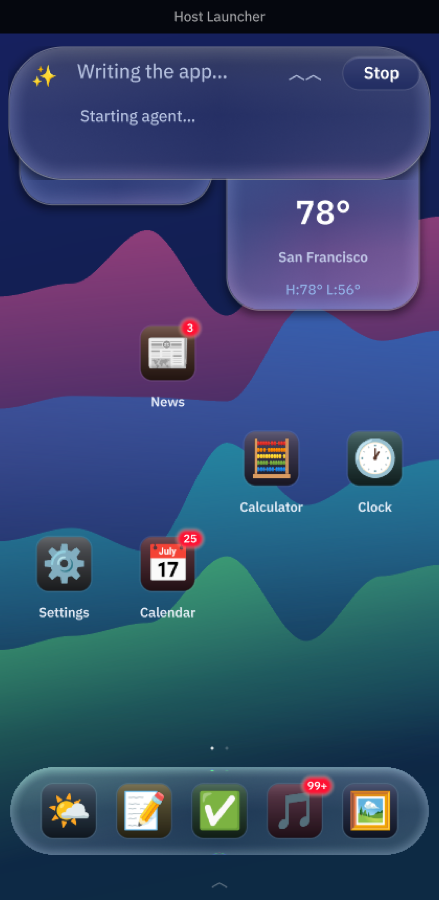
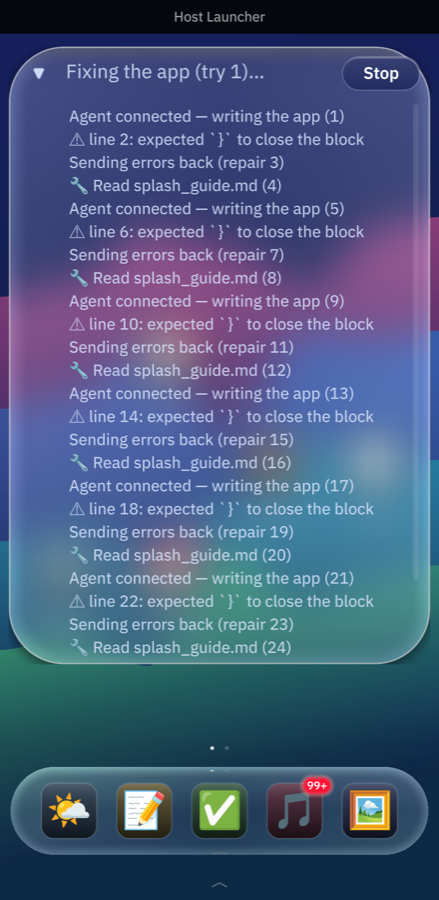
docs: agent options, the persistent console, and two makepad traps
writes up the per-backend options table (and why there's no openai
reasoning-effort control on the octos path yet), the console's new behaviour,
and the app info page.

also records two traps that each cost a debugging round: a glass surface's lens
renders OVER later siblings (why widgets floated on top of mini-apps, and why
an icon on a glass button is invisible), and typed widget accessors fail
SILENTLY on a type mismatch — swapping the send button's type left its click
handler matching nothing, so it rendered perfectly and did nothing.

diff --git a/docs/DESIGN_DECISIONS.md b/docs/DESIGN_DECISIONS.md
@@ -279,7 +279,7 @@ A second pass drove the shell much closer to a real iOS/Android launcher. Choice
     modification uses (registry + user_apps + disk + force-stop + icon/tile
     rebuild). Newest 20 kept per app.
 
-37. **App Info page** → The long-press menu was becoming a junk drawer, so it
+37. **App Info page** (full-screen since) → The long-press menu was becoming a junk drawer, so it
     now keeps only home-screen verbs (open, place, remove, modify) and hands
     everything *about* the app to an App Info page, the way a phone's per-app
     settings screen works: type, placement, network access, storage used (with
@@ -303,4 +303,138 @@ A second pass drove the shell much closer to a real iOS/Android launcher. Choice
     input on plain Return when `has_physical_keyboard()`, which is exactly
     right (a soft keyboard's Return must type a newline) and exactly why a
     touch-only user would otherwise be stuck.
+
+39. **The console only grows, and keeps everything** → Two things made the
+    progress panel unreadable. It was a last-6-lines window, so a run with a
+    repair loop scrolled its own history into the bin; and the box was `Fit`
+    around a rolling code tail, so it changed height under you while you read.
+    Now the trail is never truncated (a pipeline lives one generation, so the
+    log is bounded by the run), the output scrolls with wheel and drag, and
+    App holds the view at its high-water mark — it grows to the 62% cap and
+    stops, never shrinking. It follows the tail like a terminal until you
+    scroll or press inside it, which is taken as "I'm reading" and stops the
+    auto-follow for the rest of the run.
+
+    A scrolling view can't size itself, which shapes the whole thing: give it
+    `Fit` and it takes the entire cap however little it has to say. So the
+    viewport's height is written from Rust each event — the content's height,
+    clamped to the cap, ratcheted so it only ever rises — and the content sits
+    in an inner `Fit` view that's free to overrun. Measuring the *labels*
+    instead reads back the clip, and the box can never grow past its own
+    starting height.
+
+    Three self-inflicted traps on the way, all worth remembering. The height
+    was first set with `script_apply_eval!`, whose scope has none of the DSL's
+    imports, so `Fit`/`FitBound` resolved to nothing and the console silently
+    drew at zero height (SPLASH_FINDINGS #8, hit for the second time — it now
+    writes `walk.height` directly). "Scroll to the bottom" was written as
+    `set_scroll_pos(f64::MAX)`, which clamps once the view has scroll bars but
+    before the first draw falls through to writing `layout.scroll` raw — an
+    enormous offset there doesn't mean "the end", it throws the log a million
+    points off screen; the target is computed now. And reading `.rect()` off an
+    area that hasn't drawn logs a mark/sweep error per call — twenty of those
+    per generation slowed the test harness's snapshot queries enough to lose
+    the race against a 20s window, which is what made the failure look
+    intermittent. All rect reads go through a `drawn_height` guard.
+
+    The show/hide control moved into the ✨'s slot, and the sparkle hides
+    while the agent works: two glyphs that mean different things never share
+    the bar, and the status row is left to the status. The control is robrix's
+    `ExpandArrow` (ported into `shared/`) — an SDF triangle that rotates
+    between right and down — because every text option was bad: ˄/˅ are tofu
+    in these fonts, the CJK compat chevrons that do render (︿﹀) are wide and
+    mismatched, and no glyph can animate between states. Since makepad's
+    Button draws its own text/icon and takes no children, the button is an
+    Overlay hit target with the arrow drawn over it. Re-showing restores the
+    height it had, because "hide" should be reversible, not a reset.
+
+40. **App Info fills the screen and scrolls** → It started as a centred card,
+    which was wrong on both counts: it's a page you go *into*, not a popover,
+    and its content (version history especially) outgrows any fixed height. It
+    now fills the screen like an open mini-app, with the header pinned and
+    everything below it in a scrolling body. The sides keep the app window's
+    4pt hairline; top and bottom give up 28pt so a strip of dimmed backdrop
+    stays tappable — tap-outside-to-dismiss only works if there IS an outside. Pinning the header is the whole point of the × living
+    there: a close button that scrolls off screen is worse than none, and with
+    the page covering the screen there's no longer any backdrop left to tap.
+
+41. **Agent options are per-backend, not a fixed set** → Model, effort and
+    thinking are worth exposing, but there is no cross-provider standard for
+    any of them: Claude Code reads three environment variables of its own,
+    octos takes `--model` and offers nothing else we can drive, and a foreign
+    ACP agent is a black box. So the bar asks the ACTIVE backend what it
+    supports and renders that — three controls on Claude Code, two on octos +
+    anthropic, effort alone on other octos providers, none for a foreign agent
+    — and names the backend underneath, since the controls mean nothing without
+    it. A knob nobody reads is worse than a missing one: it looks like it
+    works. Adding one is a table entry in `Backend::knobs` plus a delivery
+    rule, and the delivery mechanism has to be *checked*, not assumed: octos's
+    in-process provider setup only passes a model, which is what made effort
+    look undeliverable, but `octos acp` reads `gateway.reasoning_effort` from
+    its config and maps it per provider (OpenAI/Grok `reasoning_effort`, Gemini
+    thinking budget, Anthropic thinking block). Delivering it therefore means
+    writing that one field into octos's own config — invasive-looking, but it
+    IS the mechanism: `--effort` exists on `octos chat`, not `acp`, and octos
+    treats the value as a persistent per-turn setting.
+
+    The values are stored as what gets sent, so a model chosen in a build that
+    listed it survives one that doesn't — the control falls back to "Default"
+    while the stored value is still delivered. "Default" everywhere means *say
+    nothing*, which is deliberately not the same as picking the agent's default
+    value: it leaves `~/.claude/settings.json` in charge.
+
+    The controls are `glass.GlassSegmented` rather than dropdowns — the choices
+    are few and ordered, so showing them inline beats hiding them behind a
+    popup, and a stock dropdown looked like a system widget dropped onto the
+    glass. The catch is that its labels come from the DSL (makepad exposes no
+    setter), so they're duplicated in create_bar.rs and pinned by a test.
+
+42. **The effort ladder is probed; "Deep" is prompt text** → Two follow-ons
+    from #41, both about not shipping controls that quietly do nothing.
+
+    `xhigh` is real in the API and in current Claude Code, but the runtime our
+    ACP adapter bundles is older and *silently drops* an unrecognized level
+    rather than erroring — the worst failure mode, since the control looks like
+    it worked. So the bar reads the runtime it will actually spawn
+    (`CLAUDE_CODE_EXECUTABLE`, else the SDK bundled beside `claude-code-acp` on
+    PATH), looks for the level, and offers it only if present — failing closed
+    when nothing is found. The row therefore declares two segmented controls
+    and shows whichever matches, since GlassSegmented's labels are fixed in the
+    DSL. Selection is by CONTENT, not segment count: octos's ladder is also
+    four levels and has no `xhigh`, and offering it there would write a value
+    octos's own enum rejects.
+
+    A "Deep" control (plan, delegate to subagents, verify) was built and then
+    removed: it only appended encouragement to the prompt, and no such setting
+    exists in any agent's own interface. It read as a capability while being a
+    suggestion — the same objection as an unbacked knob, one level up. If the
+    bundled runtime gains the Workflow tool, the control can map to that.
+
+    The row opens on prompt focus and closes on a press outside the bar — not
+    on the prompt losing focus, which had it vanishing out from under the very
+    click that was trying to use it.
+
+    Rows are addressed by `KnobId`, never by position. A backend offering
+    effort but no model (octos + openai) must still land in the effort row, or
+    the effort setting renders with the model's labels — which is exactly what
+    happened the first time.
+
+43. **Two makepad traps this codebase keeps hitting** → Worth stating plainly,
+    because each cost a debugging round and neither announces itself.
+
+    *A glass surface's lens renders OVER later siblings.* It is not a normal
+    z-ordered fill. This is why the home screen has to be hidden the instant a
+    mini-app starts opening (not when it finishes — widgets floated on top of
+    the app for the whole zoom), and why the send button's icon is layered on a
+    plain `RoundedView` disc rather than a `glass.GlassButtonProminent`: on the
+    glass button the icon drew correctly and was invisible. If something you
+    drew is missing and the log is clean, look for glass underneath it.
+
+    *Typed widget accessors fail silently on a type mismatch.* Changing the
+    send button from `glass.GlassButtonProminent` to `ButtonFlatter` left
+    `glass_button(ids!(create_send)).clicked(actions)` matching nothing — the
+    button rendered perfectly and did nothing, taking every generation path
+    with it. No error, no warning; a screenshot can't catch it. Changing a
+    widget's type is a change to every handler that reads it, and the UI suite
+    is what proves the click still lands.
 

diff --git a/docs/GENERATE.md b/docs/GENERATE.md
@@ -215,20 +215,90 @@ below it reserves the resting position so the grid still starts underneath).
 Idle, it's a multi-line composer: the prompt grows with what you type, up to
 75% of the screen, and scrolls past that. Return submits **only when a
 physical keyboard is attached** — on a phone, Return has to be able to type a
-newline — so a Send button appears as soon as the field is non-empty. That's
+newline — so a Send arrow appears beside the field as soon as it's non-empty
+(beside, not under: its own row doubled the bar's height the moment you typed
+a character). That's
 also how the UI tests submit (`submit_prompt()` in `tests/ui.rs`); a headless
 harness reports no physical keyboard.
 
 Once you submit, the same space becomes the agent's console: a status line
-with Stop, over a scrolling log of what the agent is doing — connection and
-phase changes, tool calls, validation errors being sent back for repair — and
-a live tail of the code as it streams in. ︿︿ collapses the log back to the
-status line (sticky for the session), ﹀﹀ reopens it. Presses on the bar
-never fall through to the icons underneath. It reverts to the composer when
-the generation ends.
+with Stop, over the run's log — connection and phase changes, tool calls,
+validation errors being sent back for repair — and a live tail of the code as
+it streams in.
+
+The console keeps the **whole** run and scrolls (wheel or drag), and it only
+ever grows: it sizes to the log, stops just above the dock, and never comes
+back down — a box that shrinks under the text you're reading is worse than one
+that's briefly too big. It follows the tail like a terminal until you scroll
+or press inside it, then leaves you where you are.
+
+When the run finishes the output **stays**, with the result appended as its
+last line. Press anywhere outside the bar to dismiss it and get the composer
+back. (It used to erase itself a few seconds after finishing, which took the
+explanation with it.) While the agent works
+the ✨ gives up its slot to a triangle that hides the output — it rotates
+between pointing right (hidden) and down (showing), and brings the console
+back at the size it had; the sticky choice lasts the session. Presses on the bar
+never fall through to the icons underneath, and it reverts to the composer
+when you dismiss it.
+
+### Agent options
+
+Focus the prompt (or start typing) and a row of controls appears under it:
+**Model**, **Effort**, **Thinking**. They're glass segmented controls, and your
+picks persist across launches.
+
+Which controls appear depends on the **active backend**, because there's no
+cross-provider standard for any of this:
+
+| Backend | Model | Effort | Thinking | How it's delivered |
+|---|:---:|:---:|:---:|---|
+| Claude Code (`claude-code-acp`) | ✅ | ✅ | ✅ | `ANTHROPIC_MODEL`, `CLAUDE_CODE_EFFORT_LEVEL`, `MAX_THINKING_TOKENS` — env vars the CLI reads itself |
+| octos (anthropic) | ✅ | ✅ | — | model via `octos acp --model …`; effort via `gateway.reasoning_effort` |
+| octos (openai, gemini, groq, …) | — | ✅ | — | effort via `gateway.reasoning_effort` |
+| any other ACP agent | — | — | — | unknown binary, unknown knobs |
+
+Every control maps to a setting the agent itself has. There's deliberately no
+invented "thorough mode" knob: a control that only appends encouragement to the
+prompt looks like a capability and isn't one.
+
+A knob nobody reads is worse than a missing one — it looks like it works — so
+the bar only shows what the live backend can actually honour, and names that
+backend under the controls.
+
+Two wrinkles worth knowing:
+
+- **Effort on octos edits octos's config.** `octos acp` has no `--effort` flag
+  (that's `octos chat`); it reads `gateway.reasoning_effort` from
+  `config.json`, and octos itself treats that as a persistent setting applied
+  to every turn. So the control writes that one field — everything else in the
+  file is preserved — and octos maps it per provider: `reasoning_effort` for
+  OpenAI and Grok, a thinking budget for Gemini, a thinking block for
+  Anthropic. Models with no reasoning style ignore it.
+- **The effort ladder is probed, not assumed.** `xhigh` exists in the API and
+  in current Claude Code, but *not* in the runtime `claude-code-acp@0.16.2`
+  bundles (`@anthropic-ai/claude-agent-sdk@0.2.44`, whose ladder is
+  `low`/`medium`/`high`/`max`). An unknown level there is **silently dropped**,
+  falling back to `high` — so the bar reads the runtime and only offers
+  `X-High` when it will actually be honoured. Point `CLAUDE_CODE_EXECUTABLE`
+  at a newer `claude` and the level appears by itself.
+
+  That version pin is also why there's no Workflow tool: the adapter is already
+  at its latest (0.16.2) but pins an old SDK, so upgrading the adapter doesn't
+  help — `CLAUDE_CODE_EXECUTABLE` is the escape hatch until it bumps.
+
+There's no model picker for non-Anthropic providers because we'd have to
+invent model ids we can't verify, and a wrong one just errors at generation
+time; Ollama already auto-picks the best model you have installed.
+
+Exporting `ANTHROPIC_MODEL` / `CLAUDE_CODE_EFFORT_LEVEL` / `MAX_THINKING_TOKENS`
+before launch still works — those seed the controls on a first run, and
+whatever you pick in the bar afterwards wins and is remembered
+(`agent_prefs.json`).
 
 ![the expanded prompt](screenshots/create_prompt.png)
 ![the agent console](screenshots/agent_console.png)
 
 `HOST_LAUNCHER_DEBUG_STATE=longprompt` boots straight into a tall multi-line
-prompt, and `=genbusy` into the console, for screenshots.
+prompt; `=genbusy` into the console; `=genlog` into a console filled past its
+cap (for checking the scroll and the ceiling).

diff --git a/docs/SPLASH_FINDINGS.md b/docs/SPLASH_FINDINGS.md
@@ -177,6 +177,17 @@ widget eval — the Splash `allow_net: true` set became a typed `Splash::set_all
 setter. Verified headless: the menus still land at their computed anchor
 (`LauncherBackgroundMenu 8 268 232 271`) with a clean log.
 
+**Seen again (agent console, later).** Holding the console's height at its
+high-water mark was first written as `script_apply_eval!(cx, out, { height:
+Fit{min: FitBound.Abs(#(h)), ...} })` — and every name in it failed to resolve
+for exactly the reason above, so the height never applied and the view drew at
+zero height (the console simply never appeared). Fully qualifying to
+`mod.turtle.Fit{...}` fixed it, but the right answer was again the typed route:
+`view.walk.height = Size::Fit{ min: Some(FitBound::Abs(h)), .. }`, which is what
+`apply_edit_bar_height` next door already does — and this one runs per event,
+not once per tile. **Rule of thumb: if a Rust type exists for the field, write
+the walk; reach for the eval only for shader instance vars.**
+
 The root-cause-1 derive fix **stays** regardless: it's a general latent-bug fix
 (a `script_apply_eval!` on any custom widget silently no-op'd instead of resolving
 names), even though `place_popup` no longer relies on it. The remaining

diff --git a/README.md b/README.md
@@ -161,6 +161,7 @@ src/
   app.rs                     top-level App: state, action routing, back-nav
   persistence.rs             modular save/load: layout.json + apps/<id>/ + app_data/<id>/
   shared/styles.rs           glass backdrop + icon-tile styles
+  shared/expand_arrow.rs     animated expand/collapse triangle (ported from robrix)
   launcher/
     home_screen.rs           home composition (create bar + pager + dock + drawer)
     home_pager.rs            paged grid: swipe, long-press, drag-reorder, widget tiles
@@ -169,6 +170,7 @@ src/
     context_menu.rs          long-press context menu (Open / Refine / Uninstall / …)
     dock.rs                  the editable favorites dock
   generate/                  the AI app generator (see docs/GENERATE.md)
+    prefs.rs                 per-backend agent options (model / effort / thinking)
     acp_client.rs            minimal ACP-over-stdio agent client
     pipeline.rs              prompt → extract → validate → repair → install
     octos_inproc.rs          in-process octos backend (feature agent-octos)
